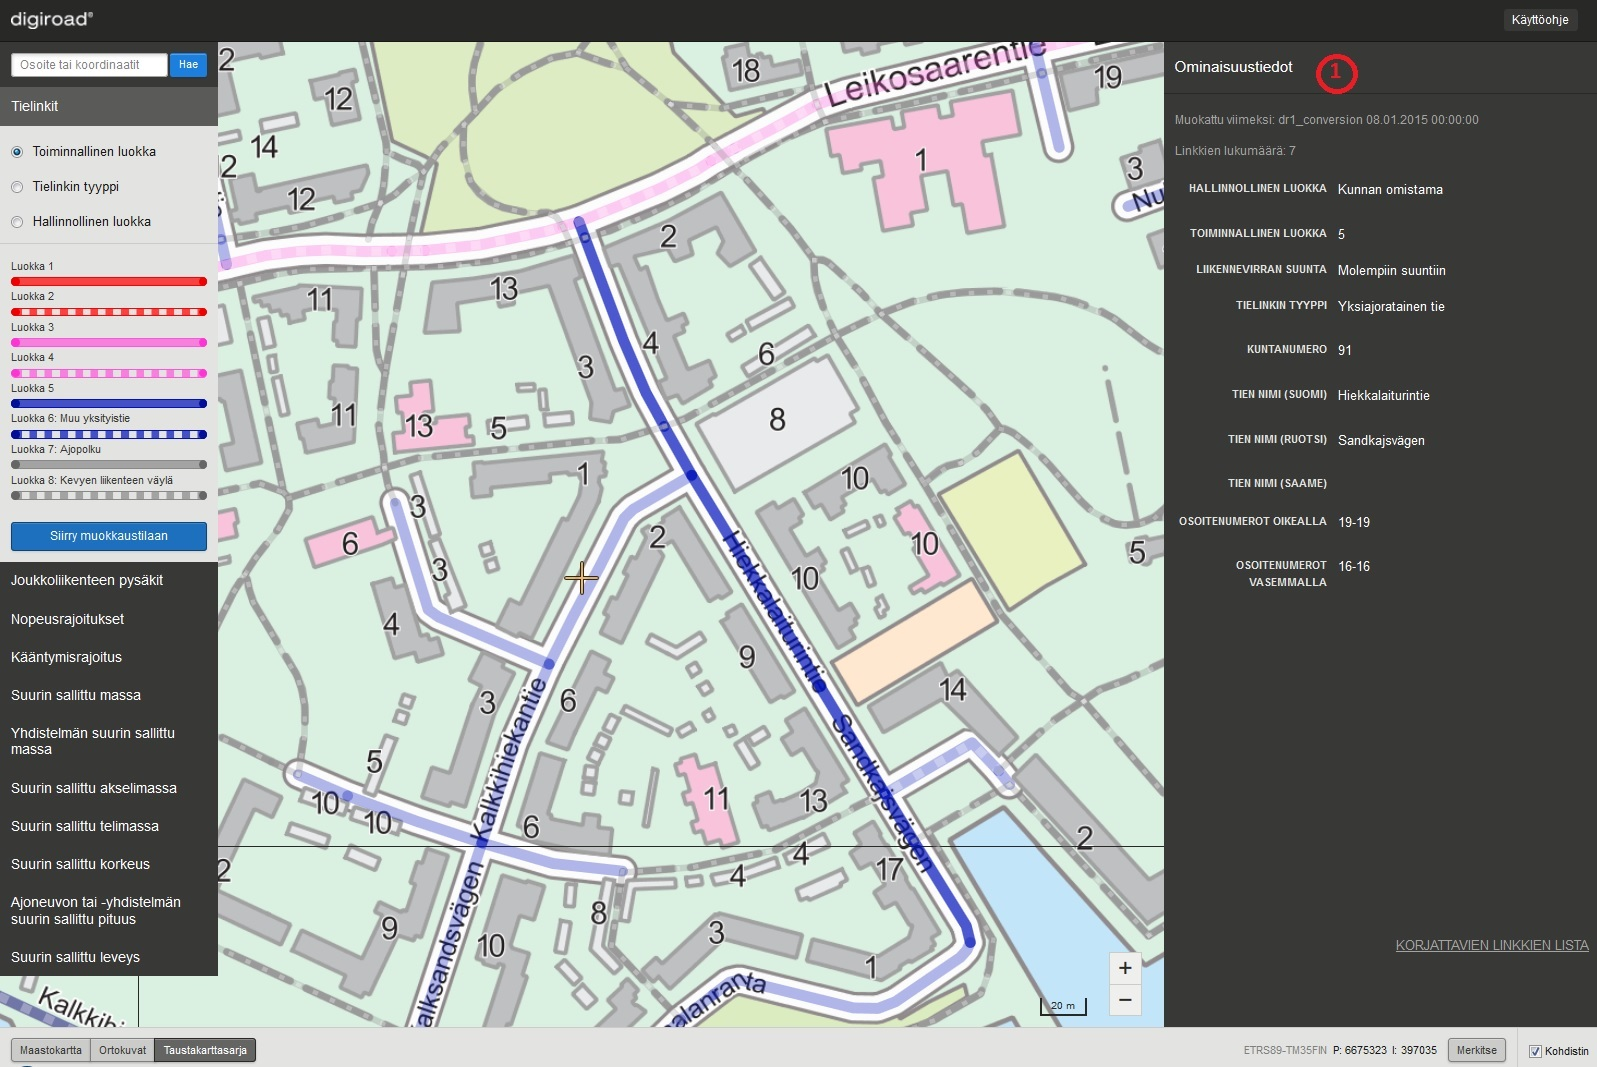
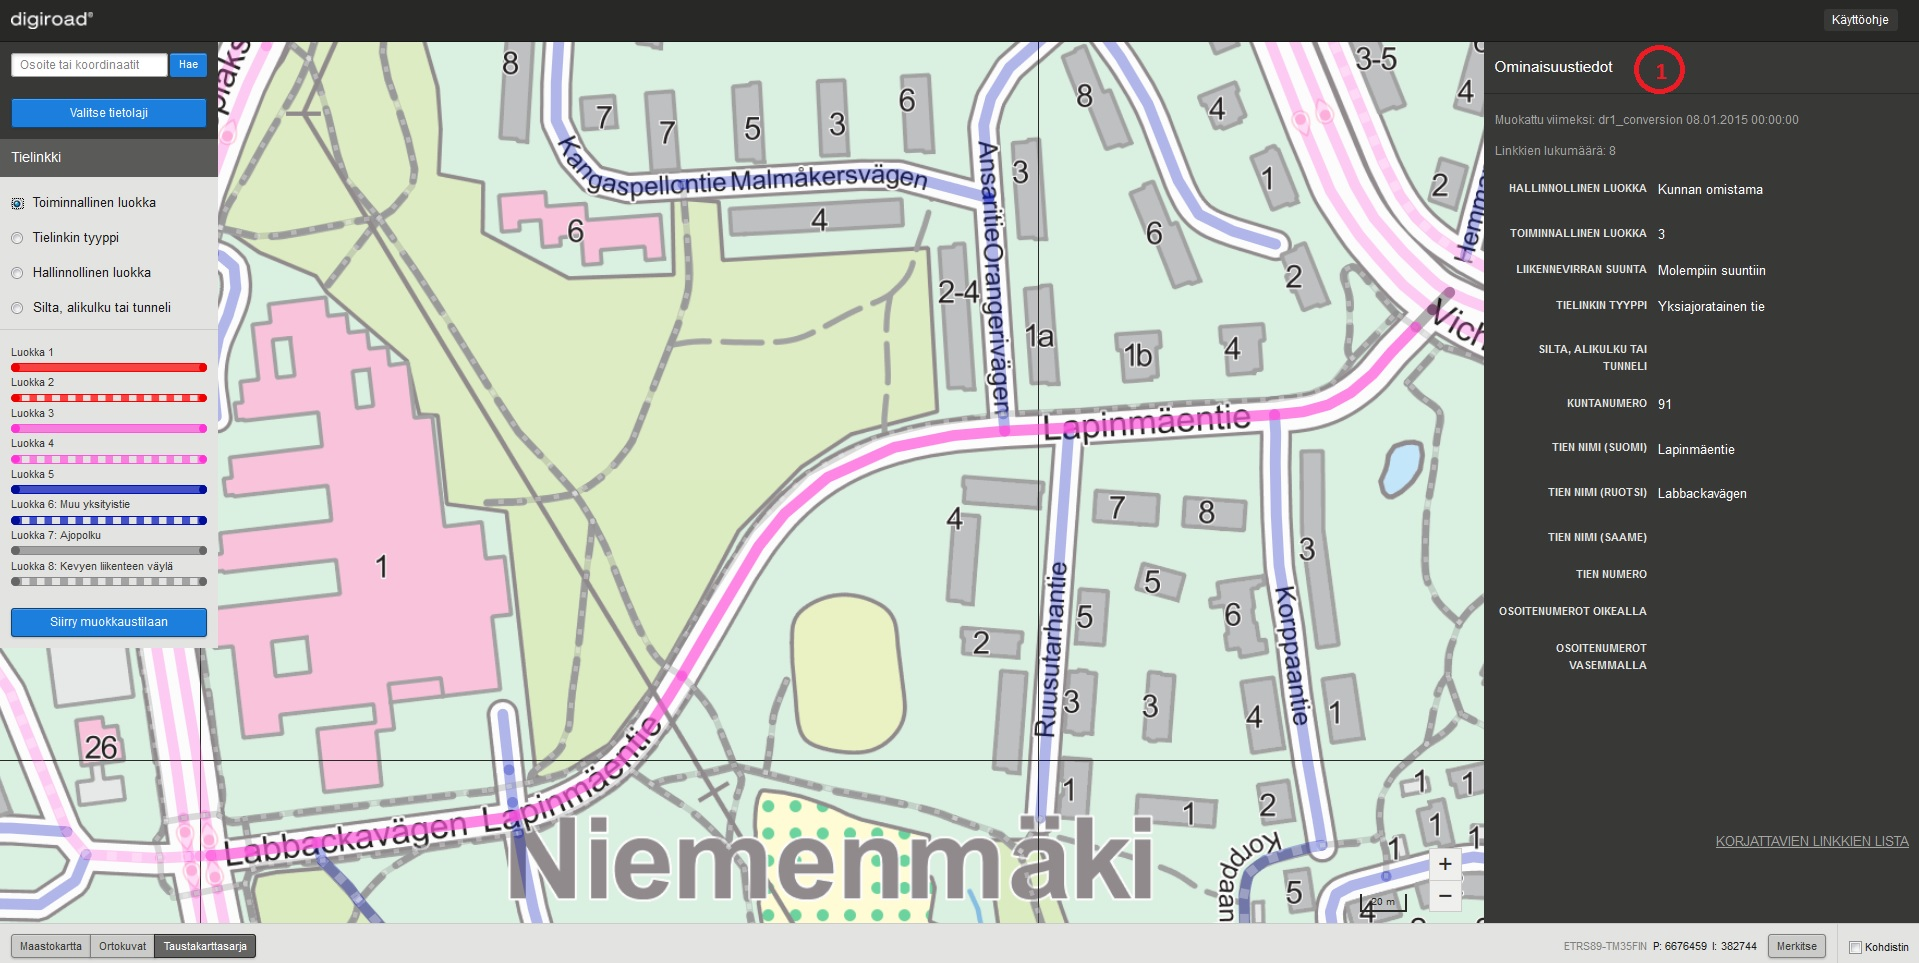
add vertical level to manual

diff --git a/UI/manual/index.md b/UI/manual/index.md
@@ -130,7 +130,7 @@ _Tielinkit._
 
 ####Tielinkkien haku####
 
-Tielinkkej&auml; haetaan tielinkin MML-ID:ll&auml; yksil&ouml;idyll&auml; URL-osoitteella. Esimerkki URL-osoitteesta:
+Tielinkkej&auml; haetaan tielinkin MML-ID:ll&auml; yksil&ouml;idyll&auml; URL-osoitteella. MML-ID:n saa k&auml;ytt&ouml;liittym&auml;ss&auml; n&auml;kyviin tuplaklikkaamalla tielinkki&auml;, jolloin oikeaan laitaan avautuu tielinkin ominaisuustieton&auml;kym&auml;. Ominaisuustieton&auml;kym&auml;ss&auml; MML-ID on ylimp&auml;n&auml;. Esimerkki URL-osoitteesta:
 
  <a href=https://testiextranet.liikennevirasto.fi/digiroad/#linkProperty/373320541 target="_blank">https://testiextranet.liikennevirasto.fi/digiroad/#linkProperty/373320541 </a>
 
@@ -138,11 +138,13 @@ jossa numerosarja 373320541 on tielinkin MML-ID. Toiminto tarkentaa karttak&auml
 
 ##Tielinkin tietojen katselu##
 
-Yksitt&auml;isen tielinkin voi valita klikkaamalla kartalta sen geometriaa. Tielinkin ominaisuustiedot avautuvat ominaisuustieton&auml;kym&auml;&auml;n (1). Tielinkin ominaisuustietoja ovat Maanmittauslaitoksen ID (MML ID), hallinnollinen luokka, toiminnallinen luokka, liikennevirran suunta, tielinkin tyyppi, kuntanumero, tien nimi (suomi, ruotsi, saame), tieosoite ja osoitenumerot vasemmalla ja oikealla.
+Yksitt&auml;isen tielinkin voi valita klikkaamalla kartalta sen geometriaa. Tielinkin ominaisuustiedot avautuvat ominaisuustieton&auml;kym&auml;&auml;n (1). Tielinkin ominaisuustietoja ovat Maanmittauslaitoksen ID (MML ID), hallinnollinen luokka, toiminnallinen luokka, liikennevirran suunta, tielinkin tyyppi, tieto tasosijainnista eli silta, alikulku tai tunneli, kuntanumero, tien nimi (suomi, ruotsi, saame), tieosoite ja osoitenumerot vasemmalla ja oikealla.
 
 Kerran klikkaamalla tulee valituksi koko tielinkkiketju. Tielinkkiketjussa kaikilla tielinkeill&auml; on sama hallinnollinen luokka, toiminnallinen luokka, tielinkin tyyppi, liikennevirran suunta ja tiennumero (maantiet) tai tien nimi (katuverkko ja yksityistie). Jos k&auml;ytt&auml;j&auml; haluaa valita vain yhden linkin, sen voi tehd&auml; tuplaklikkaamalla linkki&auml;.
 
 Valitun tielinkkiketjun tai yksitt&auml;isen tielinkin geometria korostuu kartalla. Sivun oikeaan laitaan avautuu tielinkin ominaisuustieton&auml;kym&auml;. Jos tielinkkiketju jatkuu kuntarajan yli, tai tiennumerolla on useita tien nimi&auml;, kirjataan n&auml;m&auml; kaikki tiedot ominaisuustieton&auml;kym&auml;&auml;n.
+
+Kun tielinkkiketju on valittuna, eiv&auml;t osoitenumerot ja silta, alikulku tai tunneli -tiedot n&auml;y ominaisuustieton&auml;kym&auml;ss&auml;. Jos k&auml;ytt&auml;j&auml; haluaa tarkastella n&auml;it&auml; tietoja, tulee tielinkki valita yksitt&auml;in tuplaklikkaamalla.
 
 ![Tielinkkiketju](k54.jpg)
 
@@ -152,7 +154,7 @@ _Tielinkkiketjun valinta (klikattu kerran)._
 
 _Yksitt&auml;isen tielinkin valinta (tuplaklikkaus)._
 
-Tielinkeille voi valita visualisoinnin Tietolajit -paletista tielinkkien alta. Visualisoinnin voi valita toiminnallisen luokan, tielinkin tyypin tai hallinnollisen luokan mukaan. Valinnan mukaan visualisoinnin selitteet n&auml;kyv&auml;t Tietolajit-paletissa. Lis&auml;ksi tielinkill&auml; on visualisoitu suuntanuoli, mik&auml;li tielinkin liikennevirran suunta on vain toiseen suuntaan.
+Tielinkeille voi valita visualisoinnin Tietolajit -paletista tielinkkien alta. Visualisoinnin voi valita toiminnallisen luokan, tielinkin tyypin, hallinnollisen luokan tai silta, alikulku tai tunneli -tason mukaan. Silta, alikulku tai tunneli -tasolla kohteet piirret&auml;&auml;n kartalle tasosijainnin mukaisessa j&auml;rjestyksess&auml;, esimerkiksi alikulku piirret&auml;&auml;n silta, taso 1 -linkin alle. Valinnan mukaan visualisoinnin selitteet n&auml;kyv&auml;t sovelluksen vasemmassa laidassa. Lis&auml;ksi tielinkill&auml; on visualisoitu suuntanuoli, mik&auml;li tielinkin liikennevirran suunta on vain toiseen suuntaan.
 
 Toiminnallisen luokan selitteet ovat:
 
@@ -177,6 +179,9 @@ _Tielinkit visualisoitu tielinkin tyypin mukaan._
 
 _Tielinkit visualisoitu hallinnollisen luokan mukaan._
 
+![Tielinkit visualisoitu silta, alkulku tai tunneli -tason mukaan](k180.JPG)
+
+_Tielinkit visualisoitu silta, alkulku tai tunneli -tason mukaan._
 
 ##Tielinkin ominaisuustietojen muokkaus##
 
